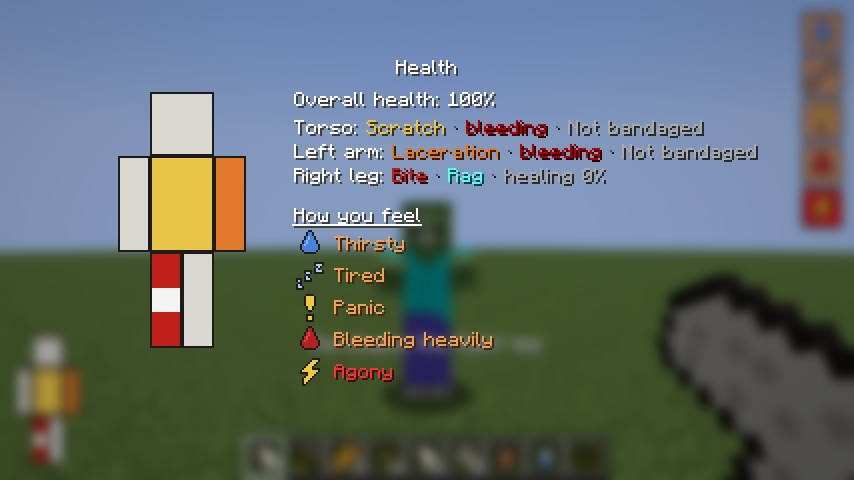
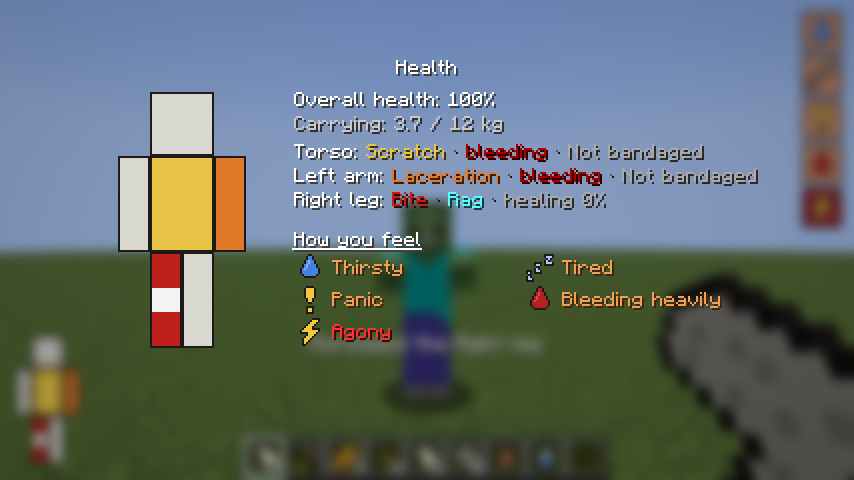
Screenshot tour, walker window fix, two-column health panel
- Walkers now find a window or barricade in any neighbouring block that
  leads towards their goal, not only straight ahead (they got stuck
  diagonally next to windows)
- Health panel lists moodles in two columns so a bad day still fits
- /outbreak noise <pos> <radius> for luring walkers
- Client tour test with 8 scenes; docs/SCREENSHOTS.md gallery

Claude-Session: https://claude.ai/code/session_01VGLFHFJwNCqRx5uWLbapBt

Changed region(s): [[0.3349, 0.2188, 0.9133, 0.8125], [0.6089, 0.5312, 0.8525, 0.6562], [0.9438, 0.4062, 1.0, 0.4688]]

diff --git a/src/gametest/java/io/github/ditsjohann/outbreak/test/TourClientTest.java b/src/gametest/java/io/github/ditsjohann/outbreak/test/TourClientTest.java
@@ -1,0 +1,137 @@
+package io.github.ditsjohann.outbreak.test;
+
+import java.util.Locale;
+
+import com.mojang.blaze3d.platform.InputConstants;
+
+import net.fabricmc.fabric.api.client.gametest.v1.FabricClientGameTest;
+import net.fabricmc.fabric.api.client.gametest.v1.context.ClientGameTestContext;
+import net.fabricmc.fabric.api.client.gametest.v1.context.TestServerContext;
+import net.fabricmc.fabric.api.client.gametest.v1.context.TestSingleplayerContext;
+
+import net.minecraft.client.gui.screens.DeathScreen;
+import net.minecraft.world.phys.Vec3;
+
+/**
+ * A screenshot tour of everything in the mod so far: a herd by day and by night, every moodle, the
+ * health panel, all items, a walker breaking in, dying of the infection, and meeting yourself again.
+ */
+public class TourClientTest implements FabricClientGameTest {
+	private static final int[][] HERD = {{-3, 7}, {-1, 6}, {1, 8}, {3, 7}, {0, 10}, {-2, 11}, {2, 12}, {-4, 13}, {4, 11}};
+
+	@Override
+	public void runTest(ClientGameTestContext context) {
+		try (TestSingleplayerContext singleplayer = context.worldBuilder().create()) {
+			TestServerContext server = singleplayer.getServer();
+			singleplayer.getConnection().waitForChunksRender();
+			server.runCommand("gamerule spawn_mobs false");
+			server.runCommand("difficulty normal");
+			server.runCommand("time set noon");
+			server.runCommand("gamemode survival @a");
+			server.runCommand("execute as @p at @s run tp @s ~ ~ ~ 0 0");
+
+			// 1. A herd coming your way.
+			for (int[] pos : HERD) {
+				server.runCommand("execute as @p at @s run summon outbreak:walker ~" + pos[0] + " ~ ~" + pos[1] + " {NoAI:1b,PersistenceRequired:1b}");
+			}
+
+			server.runCommand("execute as @e[type=outbreak:walker] at @s facing entity @p eyes run tp @s ~ ~ ~ ~ ~");
+			context.waitTicks(40);
+			context.takeScreenshot("tour-01-herd");
+
+			// 2. The same herd at night, by torchlight.
+			server.runCommand("time set midnight");
+			server.runCommand("execute as @p at @s run setblock ~-2 ~ ~3 minecraft:torch");
+			server.runCommand("execute as @p at @s run setblock ~2 ~ ~4 minecraft:torch");
+			context.waitTicks(40);
+			context.takeScreenshot("tour-02-night");
+			server.runCommand("kill @e[type=outbreak:walker]");
+			server.runCommand("time set noon");
+
+			// 3. Every moodle at once: wounds, one bandaged with a rag, thirst, fatigue, panic, fever, hunger, a heavy load.
+			server.runCommand("clear @p");
+			server.runCommand("outbreak cure @p");
+			server.runCommand("effect give @p minecraft:hunger 3 255 true");
+			context.waitTicks(70);
+			server.runCommand("effect clear @p minecraft:hunger");
+			server.runCommand("outbreak wound @p left_arm laceration");
+			server.runCommand("outbreak wound @p right_leg bite");
+			server.runCommand("outbreak wound @p head scratch");
+			server.runCommand("outbreak wound @p torso laceration");
+			server.runCommand("item replace entity @p hotbar.0 with outbreak:rag 4");
+			context.runOnClient(minecraft -> minecraft.player.getInventory().setSelectedSlot(0));
+			context.getInput().holdKey(options -> options.keyUse);
+			context.waitTicks(40);
+			context.getInput().releaseKey(options -> options.keyUse);
+			server.runCommand("outbreak set @p thirst 0.9");
+			server.runCommand("outbreak set @p fatigue 0.9");
+			server.runCommand("outbreak set @p panic 0.7");
+			server.runCommand("outbreak infect @p 0.8");
+			server.runCommand("damage @p 6 minecraft:generic");
+			server.runCommand("give @p minecraft:cobblestone 160");
+			context.waitTicks(50);
+			context.takeScreenshot("tour-03-all-moodles");
+			context.getInput().pressKey(InputConstants.KEY_H);
+			context.waitTicks(20);
+			context.takeScreenshot("tour-04-health-panel");
+			context.getInput().pressKey(InputConstants.KEY_ESCAPE);
+
+			// 4. Everything you can find.
+			server.runCommand("outbreak cure @p");
+			server.runCommand("effect give @p minecraft:instant_health 1 10 true");
+			server.runCommand("clear @p");
+			for (String item : new String[] {"outbreak:rag 8", "outbreak:bandage 3", "outbreak:disinfectant", "outbreak:boiled_water",
+				"minecraft:potion[minecraft:potion_contents={potion:\"minecraft:water\"}]", "outbreak:kitchen_knife", "outbreak:baseball_bat",
+				"outbreak:crowbar", "outbreak:machete", "outbreak:hammer", "outbreak:nails 32", "outbreak:school_bag", "outbreak:hiking_bag",
+				"minecraft:iron_axe", "minecraft:stone_pickaxe", "minecraft:bread 4", "minecraft:oak_planks 16", "minecraft:white_wool 3"}) {
+				server.runCommand("give @p " + item);
+			}
+
+			context.waitTicks(10);
+			context.getInput().pressKey(options -> options.keyInventory);
+			context.waitTicks(20);
+			context.takeScreenshot("tour-05-inventory");
+			context.getInput().pressKey(InputConstants.KEY_ESCAPE);
+
+			// 5. Holed up in a brick house: a noise outside, and a walker smashes the window up to the barricade.
+			server.runCommand("execute as @p at @s run fill ~-3 ~-1 ~-3 ~3 ~3 ~5 minecraft:bricks hollow");
+			server.runCommand("execute as @p at @s run setblock ~ ~ ~5 minecraft:glass_pane");
+			server.runCommand("execute as @p at @s run setblock ~ ~1 ~5 minecraft:glass_pane");
+			server.runCommand("execute as @p at @s run setblock ~ ~ ~4 outbreak:barricade[facing=north,planks=2]");
+			server.runCommand("execute as @p at @s run setblock ~ ~1 ~4 outbreak:barricade[facing=north,planks=3]");
+			server.runCommand("execute as @p at @s run setblock ~2 ~ ~-2 minecraft:torch");
+			server.runCommand("execute as @p at @s run setblock ~-2 ~ ~-2 minecraft:torch");
+			server.runCommand("execute as @p at @s run summon outbreak:walker ~ ~ ~9 {PersistenceRequired:1b}");
+			server.runCommand("gamemode creative @p");
+			server.runCommand("execute as @p at @s run tp @s ~ ~ ~-1 0 5");
+			context.waitTicks(20);
+			server.runCommand("execute as @p at @s run outbreak noise ~0.5 ~1 ~5.5 24");
+			context.waitTicks(20 * 16);
+			context.takeScreenshot("tour-06-break-in");
+			server.runCommand("kill @e[type=outbreak:walker]");
+
+			// 6. Infected: the fever runs its course.
+			server.runCommand("gamemode survival @p");
+			server.runCommand("outbreak cure @p");
+			Vec3 deathPos = server.computeOnServer(s -> singleplayer.getConnection().getServerPlayer().position());
+			server.runCommand("outbreak infect @p 0.99");
+			context.waitFor(minecraft -> minecraft.gui.screen() instanceof DeathScreen, 20 * 60);
+			context.waitTicks(20);
+			context.takeScreenshot("tour-07-death");
+
+			// 7. Thirty seconds later, someone gets back up.
+			context.clickScreenButton("deathScreen.respawn");
+			context.waitTicks(20);
+			server.runCommand("gamemode creative @p");
+			context.waitTicks(20 * 32);
+			// Stand a few steps away, facing north (yaw 180) towards where you died.
+			server.runCommand(String.format(Locale.ROOT, "tp @p %.2f %.2f %.2f 180 8", deathPos.x, deathPos.y, deathPos.z + 2.8));
+			// Hold your old self still for the photo.
+			server.runCommand("execute as @e[type=outbreak:walker] run data merge entity @s {NoAI:1b}");
+			server.runCommand(String.format(Locale.ROOT, "tp @e[type=outbreak:walker] %.2f %.2f %.2f", deathPos.x, deathPos.y, deathPos.z));
+			server.runCommand("execute as @e[type=outbreak:walker] at @s facing entity @p eyes run tp @s ~ ~ ~ ~ ~");
+			context.waitTicks(30);
+			context.takeScreenshot("tour-08-you-turned");
+		}
+	}
+}

diff --git a/src/main/java/io/github/ditsjohann/outbreak/command/OutbreakCommand.java b/src/main/java/io/github/ditsjohann/outbreak/command/OutbreakCommand.java
@@ -11,6 +11,7 @@ import com.mojang.brigadier.context.CommandContext;
 import com.mojang.brigadier.exceptions.CommandSyntaxException;
 
 import io.github.ditsjohann.outbreak.inventory.CarryWeight;
+import io.github.ditsjohann.outbreak.noise.NoiseSystem;
 import io.github.ditsjohann.outbreak.survivor.BodySimulation;
 import io.github.ditsjohann.outbreak.survivor.Injuries;
 import io.github.ditsjohann.outbreak.survivor.SurvivorState;
@@ -25,12 +26,14 @@ import net.minecraft.commands.CommandSourceStack;
 import net.minecraft.commands.Commands;
 import net.minecraft.commands.SharedSuggestionProvider;
 import net.minecraft.commands.arguments.EntityArgument;
+import net.minecraft.commands.arguments.coordinates.Vec3Argument;
 import net.minecraft.network.chat.Component;
 import net.minecraft.server.level.ServerPlayer;
 import net.minecraft.util.StringRepresentable;
+import net.minecraft.world.phys.Vec3;
 
 /**
- * Admin and testing tools: {@code /outbreak status|wound|infect|cure|set}. Shows the hidden Knox
+ * Admin and testing tools: {@code /outbreak status|wound|infect|cure|set|noise}. Shows the hidden Knox
  * infection, so it's for operators only.
  */
 public final class OutbreakCommand {
@@ -44,6 +47,14 @@ public final class OutbreakCommand {
 	private static void register(CommandDispatcher<CommandSourceStack> dispatcher) {
 		dispatcher.register(Commands.literal("outbreak")
 			.requires(Commands.hasPermission(Commands.LEVEL_GAMEMASTERS))
+			.then(Commands.literal("noise").then(Commands.argument("pos", Vec3Argument.vec3())
+				.then(Commands.argument("radius", FloatArgumentType.floatArg(1.0F, 128.0F)).executes(ctx -> {
+					Vec3 pos = Vec3Argument.getVec3(ctx, "pos");
+					float radius = FloatArgumentType.getFloat(ctx, "radius");
+					NoiseSystem.emit(ctx.getSource().getLevel(), pos, radius);
+					ctx.getSource().sendSuccess(() -> Component.literal(String.format(Locale.ROOT, "Made a noise of %.0f blocks", radius)), false);
+					return 1;
+				}))))
 			.then(Commands.literal("status").then(player().executes(ctx -> status(ctx.getSource(), target(ctx)))))
 			.then(Commands.literal("wound").then(player()
 				.then(enumArgument("part", BodyPart.values())

diff --git a/src/main/java/io/github/ditsjohann/outbreak/entity/ai/BreakObstacleGoal.java b/src/main/java/io/github/ditsjohann/outbreak/entity/ai/BreakObstacleGoal.java
@@ -8,7 +8,6 @@ import io.github.ditsjohann.outbreak.entity.Walker;
 import org.jspecify.annotations.Nullable;
 
 import net.minecraft.core.BlockPos;
-import net.minecraft.core.Direction;
 import net.minecraft.server.level.ServerLevel;
 import net.minecraft.world.InteractionHand;
 import net.minecraft.world.entity.LivingEntity;
@@ -106,15 +105,24 @@ public class BreakObstacleGoal extends Goal {
 			return null;
 		}
 
-		Vec3 toGoal = goal.subtract(this.walker.position());
-		Direction facing = Direction.getApproximateNearest(toGoal.x, 0.0, toGoal.z);
+		// Any window or barricade right next to the walker (also diagonally, at feet or head height)
+		// that lies on the way to the goal will do; take the one closest to the goal.
 		BlockPos feet = this.walker.blockPosition();
-		for (BlockPos pos : new BlockPos[] {feet.relative(facing), feet.relative(facing).above(), feet}) {
-			if (Barricades.isBreakable(this.walker.level().getBlockState(pos))) {
-				return pos;
+		double ownDistance = here.distanceToSqr(goal);
+		@Nullable BlockPos best = null;
+		double bestDistance = Double.MAX_VALUE;
+		for (BlockPos pos : BlockPos.betweenClosed(feet.offset(-1, 0, -1), feet.offset(1, 1, 1))) {
+			if (!Barricades.isBreakable(this.walker.level().getBlockState(pos))) {
+				continue;
+			}
+
+			double distance = Vec3.atCenterOf(pos).distanceToSqr(goal);
+			if (distance < ownDistance && distance < bestDistance) {
+				bestDistance = distance;
+				best = pos.immutable();
 			}
 		}
 
-		return null;
+		return best;
 	}
 }

diff --git a/src/client/java/io/github/ditsjohann/outbreak/client/HealthPanelScreen.java b/src/client/java/io/github/ditsjohann/outbreak/client/HealthPanelScreen.java
@@ -85,14 +85,21 @@ public class HealthPanelScreen extends Screen {
 		y += 8;
 		graphics.text(this.font, Component.translatable("outbreak.health.status").withStyle(ChatFormatting.UNDERLINE), textX, y, 0xFFFFFFFF);
 		y += 14;
+		// Two columns, so a really bad day still fits on screen.
 		boolean any = false;
+		int column = 0;
 		for (Moodle moodle : Moodle.values()) {
 			int level = moodle.level(player, state);
 			if (level > 0) {
 				any = true;
-				graphics.blitSprite(RenderPipelines.GUI_TEXTURED, SurvivorHud.sprite(moodle), textX, y - 4, 16, 16);
-				graphics.text(this.font, Component.translatable(moodle.translationKey(level)), textX + 20, y, levelColor(level));
-				y += 16;
+				int x = textX + column * 115;
+				graphics.blitSprite(RenderPipelines.GUI_TEXTURED, SurvivorHud.sprite(moodle), x, y - 4, 16, 16);
+				graphics.text(this.font, Component.translatable(moodle.translationKey(level)), x + 19, y, levelColor(level));
+				column++;
+				if (column == 2) {
+					column = 0;
+					y += 16;
+				}
 			}
 		}
 

diff --git a/docs/SCREENSHOTS.md b/docs/SCREENSHOTS.md
@@ -1,0 +1,14 @@
+# Screenshots
+
+Taken automatically in the real game client by the client game tests
+(`SDL_VIDEO_FORCE_EGL=1 xvfb-run -a ./gradlew runClientGameTest`), on a flat test world. Groningen
+itself still has to be generated with Arnis.
+
+| | |
+|---|---|
+| ![](screenshots/tour/01-herd.png) A herd: walkers spawn in groups that follow a leader. | ![](screenshots/tour/02-night.png) The same herd at night. |
+| ![](screenshots/tour/03-all-moodles.png) A really bad day: every moodle, the body doll and a bandaged leg. | ![](screenshots/tour/04-health-panel.png) The health panel (H). |
+| ![](screenshots/tour/05-inventory.png) Everything you can find so far. | ![](screenshots/tour/06-break-in.png) A walker smashed the window and is at the barricade. |
+| ![](screenshots/tour/07-death.png) Succumbed to the infection. | ![](screenshots/tour/08-you-turned.png) 30 seconds later: your old self, among your dropped things. |
+| ![](screenshots/phase3-barricades.png) Barricades with 4, 2 and 1 planks; weapons; a heavy load. | ![](screenshots/phase3-bag.png) A worn hiking bag, opened with B. |
+| ![](screenshots/phase3-loot.png) A kitchen chest, looted on first open. | ![](screenshots/phase2-hud.png) Wounds on the body doll. |

diff --git a/docs/PHASE3.md b/docs/PHASE3.md
@@ -46,6 +46,7 @@ They all wear out. The damage shown in game is per hit; a headshot does 4×.
   - A window breaks after 3 blows.
   - A barricade loses a plank every 6 blows (about 24 seconds for all 4).
   - Every blow is noise that draws **other** walkers.
+  - It works from any side, also when the walker ends up diagonally next to the window.
   - Once a walker has started, it keeps going until the barricade gives.
 - **Nails:** 1 iron ingot gives 8 nails. You also find them in workshops and in walkers' pockets.
 
@@ -80,6 +81,9 @@ They all wear out. The damage shown in game is per hit; a headshot does 4×.
 - **Crafting:** still the vanilla crafting table with our recipes. A PZ-style crafting menu comes later.
 - **Room types:** guessed from nearby blocks for now. Phase 7 reads the real building types from
   OpenStreetMap (supermarket, pharmacy, police station...).
+
+## Admin and testing
+`/outbreak noise <x y z> <radius>` makes a noise there, for luring walkers.
 
 ## Tests
 - Server: `python3 tools/servertest/driver.py . tools/servertest/phase3.txt run/phase3.log`

diff --git a/README.md b/README.md
@@ -6,6 +6,7 @@ played on a real 1:1 copy of Groningen generated with
 
 - [Design](docs/DESIGN.md) — concept, systems, build phases, open questions
 - [Groningen map](docs/MAP_GRONINGEN.md) — how to generate the map with Arnis
+- [Screenshots](docs/SCREENSHOTS.md) — what it looks like so far
 - [Phase 1](docs/PHASE1.md) — walkers, noise, vanilla removed
 - [Phase 2](docs/PHASE2.md) — wounds, infection, needs, moodle HUD
 - [Phase 3](docs/PHASE3.md) — loot, barricades, weapons, carry weight, bags
